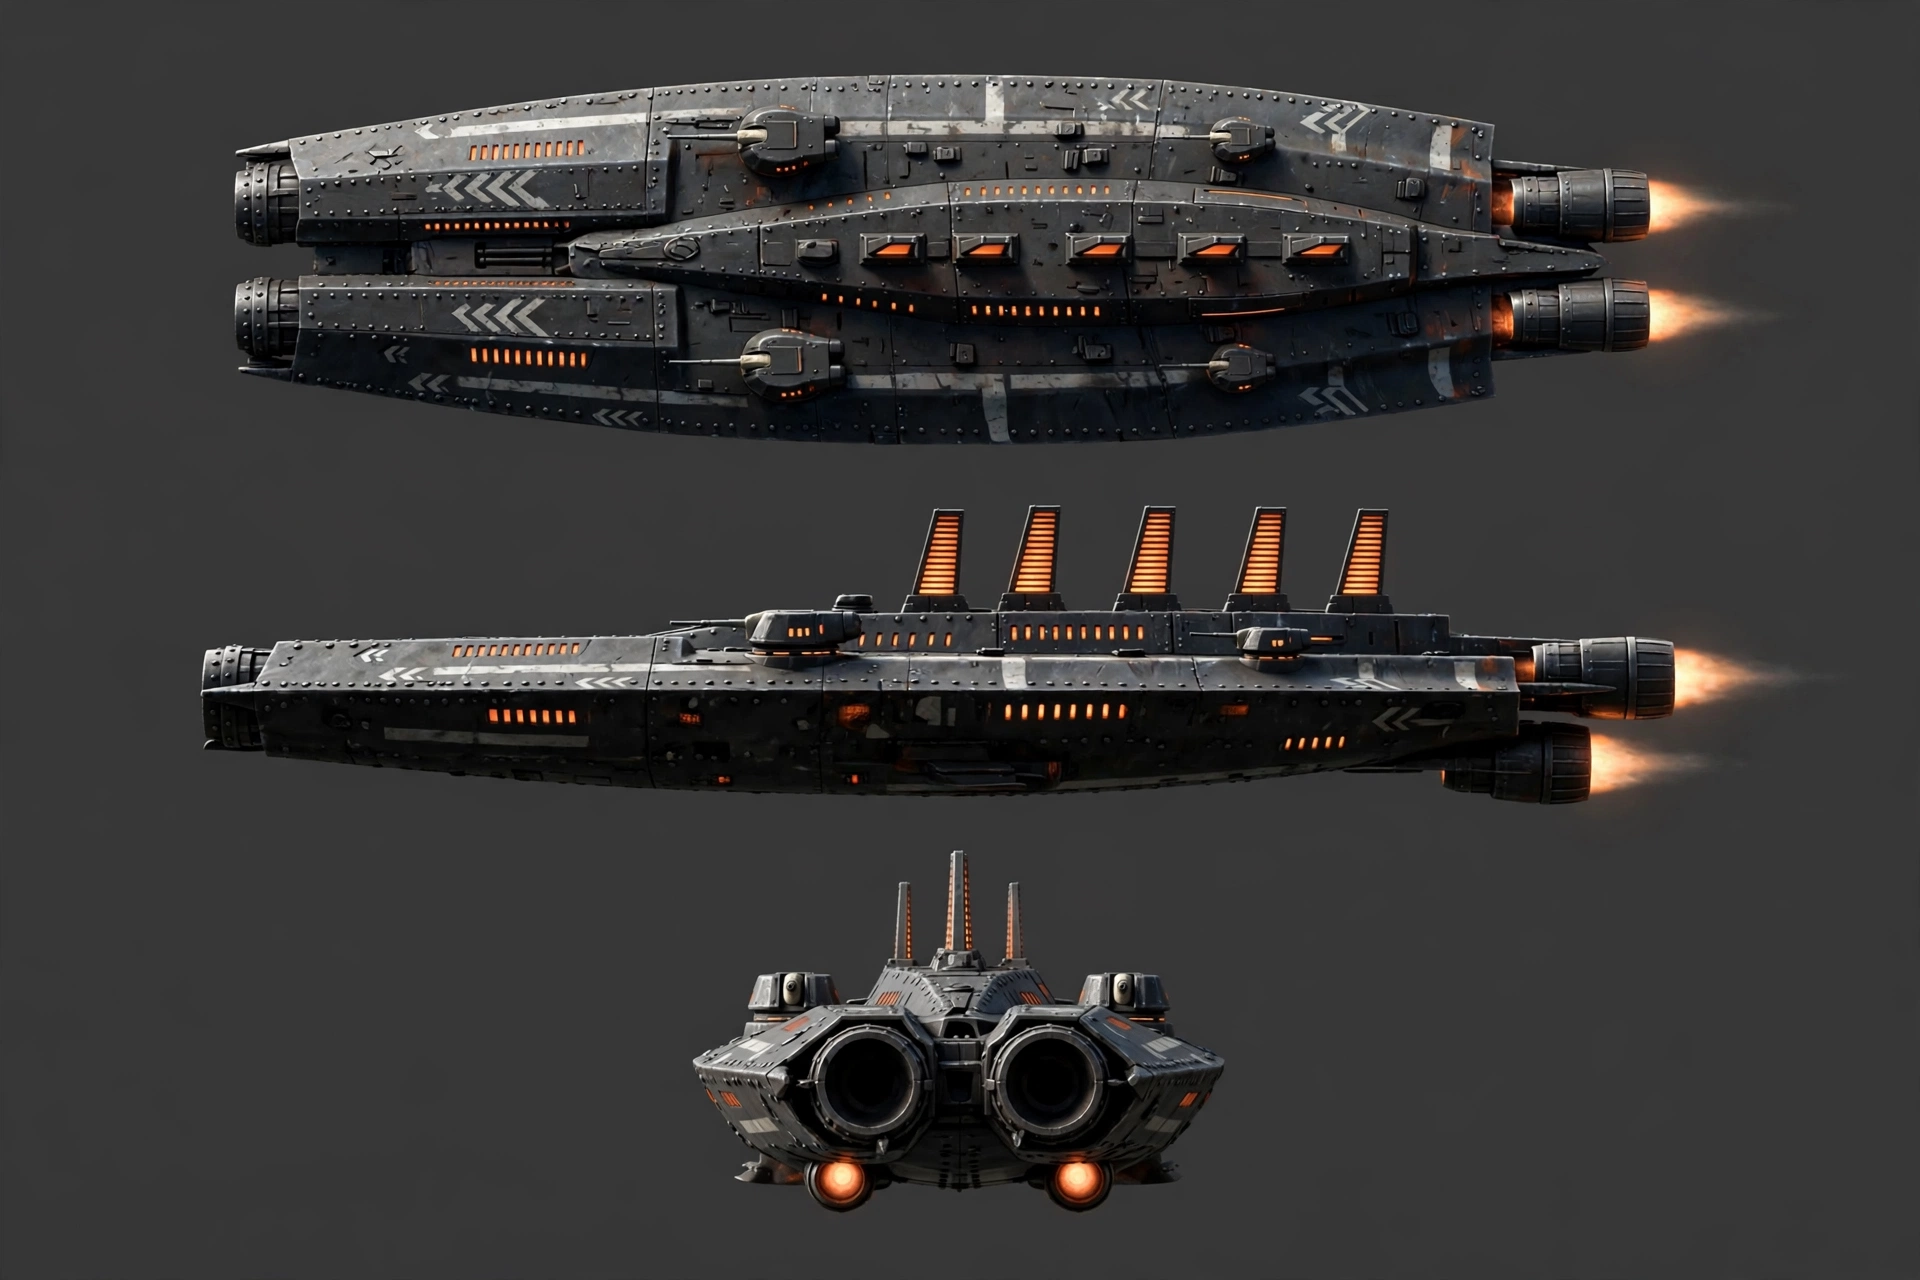
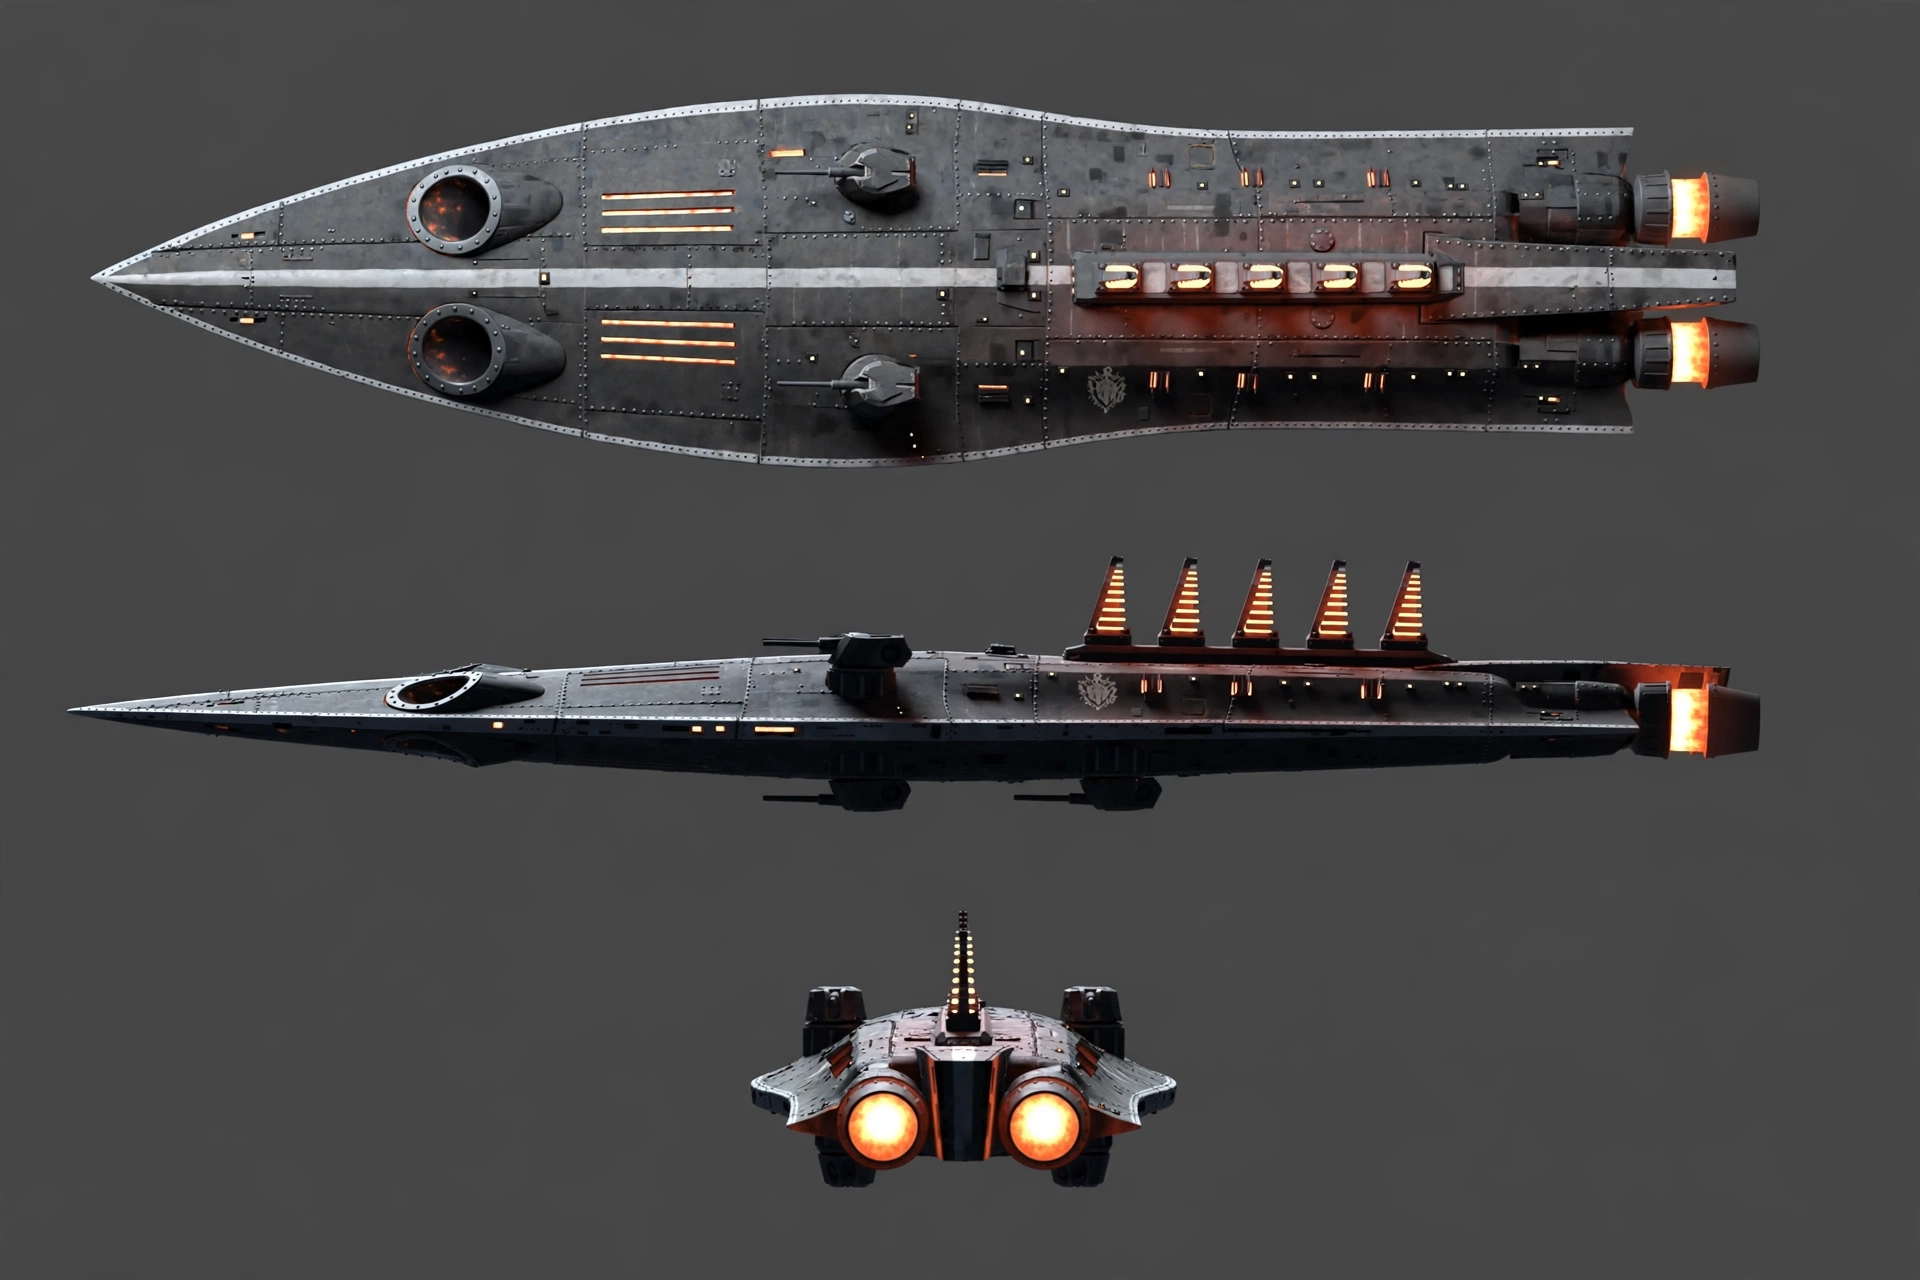
Issue 1145 round 2: Harrow redrawn as one spearhead hull (tubes recessed, chevrons removed), Warden and Vigil spire heights trimmed per Ryan's approval

Changed region(s): [[0.0312, 0.0312, 0.9375, 0.6562], [0.3438, 0.6875, 0.6562, 0.9688]]

diff --git a/contrib/muse/design/class_family_sunward_2026_11/designs.md b/contrib/muse/design/class_family_sunward_2026_11/designs.md
@@ -67,7 +67,7 @@ nearly featureless except for the flak pair and a short spire row.
 | Autocannon, forward, 3 shots | Compact forged casemate at the spearhead root, station 14 percent; three-barrel rotary cluster, all barrels fire per volley |
 | Flak, turret, 3 shots | One pair of small twin tubs at the deck edges, station 60 percent; 3 shots distributed over the pair per the family convention |
 | Broadside band | Plated and louvred, no ports (no broadside slot in data) |
-| Spire line | 3 low spires, stations 68 / 76 / 84 percent, tallest 0.9 |
+| Spire line | 3 low spires, stations 68 / 76 / 84 percent, tallest 0.7 (reduced per Ryan's approval note, Nov 19, 2026: approved with smaller spires) |
 | Command | Ember slits in the spine block face, station 58 percent |
 | Engines | 2 bells, 0.55 across, offsets plus/minus 0.4 |
 | Breaks | Lengthwise along the band; spire line snaps as one piece |
@@ -105,11 +105,21 @@ text for this hull (vs_harrow_t) reads "Twin prow torpedo tubes",
 and data outranks leg inference (R236). A single centreline tube
 would also blunt the spearhead point.
 
-Picture slips: the beauty reads five spires (table: 4) and draws
-flame plumes at the bells (in game the bells glow ember, no plume);
-the tube bores are oversized against the table's offsets. The sheet's
-top view wrongly splits the hull into twin booms: the hull is ONE
-blade, and the sheet's front view plus the beauty govern.
+Round 2 (Ryan's ruling, Nov 19, 2026): the round 1 pictures were
+sent back because the riveted twin-hull read and the hazard
+chevrons made the ship look like a different faction. Round 2 keeps
+the table above and redraws the ship as ONE solid spearhead hull:
+the twin tubes are recessed into the spearhead's cheek plates like
+gun ports, the chevrons are gone (frost-white is one thin stripe
+and a small sigil, as on S8), and the rivet work follows S8's fine
+seam lines. The round 2 beauty, sheet and line-up replace the
+round 1 pictures in this folder.
+
+Picture slips (round 2): the beauty and the sheet's side view draw
+five spires (table: 4). The sheet's third view is the stern, not
+the bow; the bow identity is carried by the sheet's top view and
+the beauty. The sheet's top view draws the spine block as a row of
+lit blocks; the spires themselves are as tabled.
 
 ## Vigil, cruiser (data key penitent), 14.5
 
@@ -125,7 +135,7 @@ along the centre ridge.
 | Battery, starboard, 4 shots | Mirrored, same stations |
 | Lance, forward, 1 shot | Single emitter set in the spearhead face, station 4 percent; housing and dorsal power trunk along the centre ridge to station 30 percent |
 | Deck turrets | None in data; the crowned deck stays clean |
-| Spire line | 5 spires, stations 64 / 70 / 76 / 82 / 88 percent, tallest 1.7 |
+| Spire line | 5 spires, stations 64 / 70 / 76 / 82 / 88 percent, tallest 1.3 (reduced per Ryan's approval note, Nov 19, 2026: approved with smaller spires) |
 | Command | Ember slits in the spine block face, station 60 percent |
 | Engines | 2 bells, 1.2 across, offsets plus/minus 0.8 |
 | Breaks | Lengthwise between the deck rows; spire line snaps as one piece |

diff --git a/contrib/muse/design/class_family_sunward_2026_11/prompts.md b/contrib/muse/design/class_family_sunward_2026_11/prompts.md
@@ -91,6 +91,49 @@ the front view the two torpedo tube bores sit side by side INSIDE
 the one hull's bow, flanking its central spearhead point." (The
 top view still splits; see the slip note in designs.md.)
 
+## Round 2 Harrow (Nov 19, 2026; these produced the delivered files)
+
+Beauty, generated fresh from the S8 three-quarter anchor (not from
+the round 1 Harrow): "Using the attached picture as the reference
+for material, colour and rendering style (forged black iron plate
+with fine rivet lines along the seams, frost-white markings,
+glowing ember-orange heat light, massive gothic space warship):
+draw a destroyer of the same fleet, a single spaceship in deep
+space, three-quarter view from the front and above, bow pointing
+left. CRITICAL: the ship has ONE single solid hull, one narrow
+black-iron blade with ONE spearhead point at the bow, exactly like
+the reference ship's hull. Set into the two angled cheek plates of
+that single spearhead, one on each side of the central point, are
+two deep torpedo tubes: dark round bores with thick forged lips,
+recessed INTO the solid bow like gun ports, NOT separate cylinders
+and NOT splitting the hull. Behind the bow the hull widens
+slightly into an armoured magazine section with thin ember
+heat-vent slits, then runs back as one smooth blade with plain
+riveted flanks and NO gun ports. One pair of low turret tubs at
+the deck edges amidships, each with a single short barrel. Four
+slim radiator spires with ember-glowing fins along the spine
+toward the stern. Two deep-set engine bells glowing ember orange
+at the stern. Frost-white markings are limited to one thin stripe
+and a small sigil: NO chevron patterns, NO hazard stripes, NO
+industrial markings. Painterly realistic rendering, deep space
+background. No text, no other ships."
+
+Sheet: the standard sheet prompt above, from the round 2 beauty,
+with the feature list restated and "exactly four slim radiator
+spires" and "one thin frost-white stripe, no chevrons" spelled
+out.
+
+Line-up: regenerated with the round 2 Harrow beauty in the same
+four-reference pattern as above, then one corrective take after
+the smallest ship drifted into a sea-going naval vessel: "redraw
+the SAME four-ship profile line-up with ONE correction. The bottom
+ship is wrong: it is drawn as a sea-going naval vessel with a mast
+and a red hull bottom. Replace it with the frigate from the second
+picture: a black-iron SPACE frigate... NO mast, NO red paint, no
+waterline, floating in space like the other three. Keep the other
+three ships and the stacked layout, relative sizes and deep space
+background unchanged."
+
 ## family_lineup.webp
 
 "Using the four attached pictures as the exact design references,

diff --git a/contrib/muse/design/class_family_sunward_2026_11/README.md b/contrib/muse/design/class_family_sunward_2026_11/README.md
@@ -42,3 +42,9 @@ per ship in designs.md so nobody has to guess.
   the cloud browser. Both seats are recorded as blocked, not empty;
   the delivery does not wait on them.
 - Chair rulings where the legs disagreed are marked in designs.md.
+- Round 2 (Nov 19, 2026): Ryan approved Warden and Vigil with
+  smaller spires (spire heights trimmed in designs.md) and sent
+  Harrow back; its round 1 pictures read as a riveted twin hull
+  with hazard chevrons, a different faction. Round 2 Harrow beauty,
+  sheet and line-up pictures replace the round 1 files here; the
+  Harrow feature table is unchanged. See designs.md and prompts.md.
